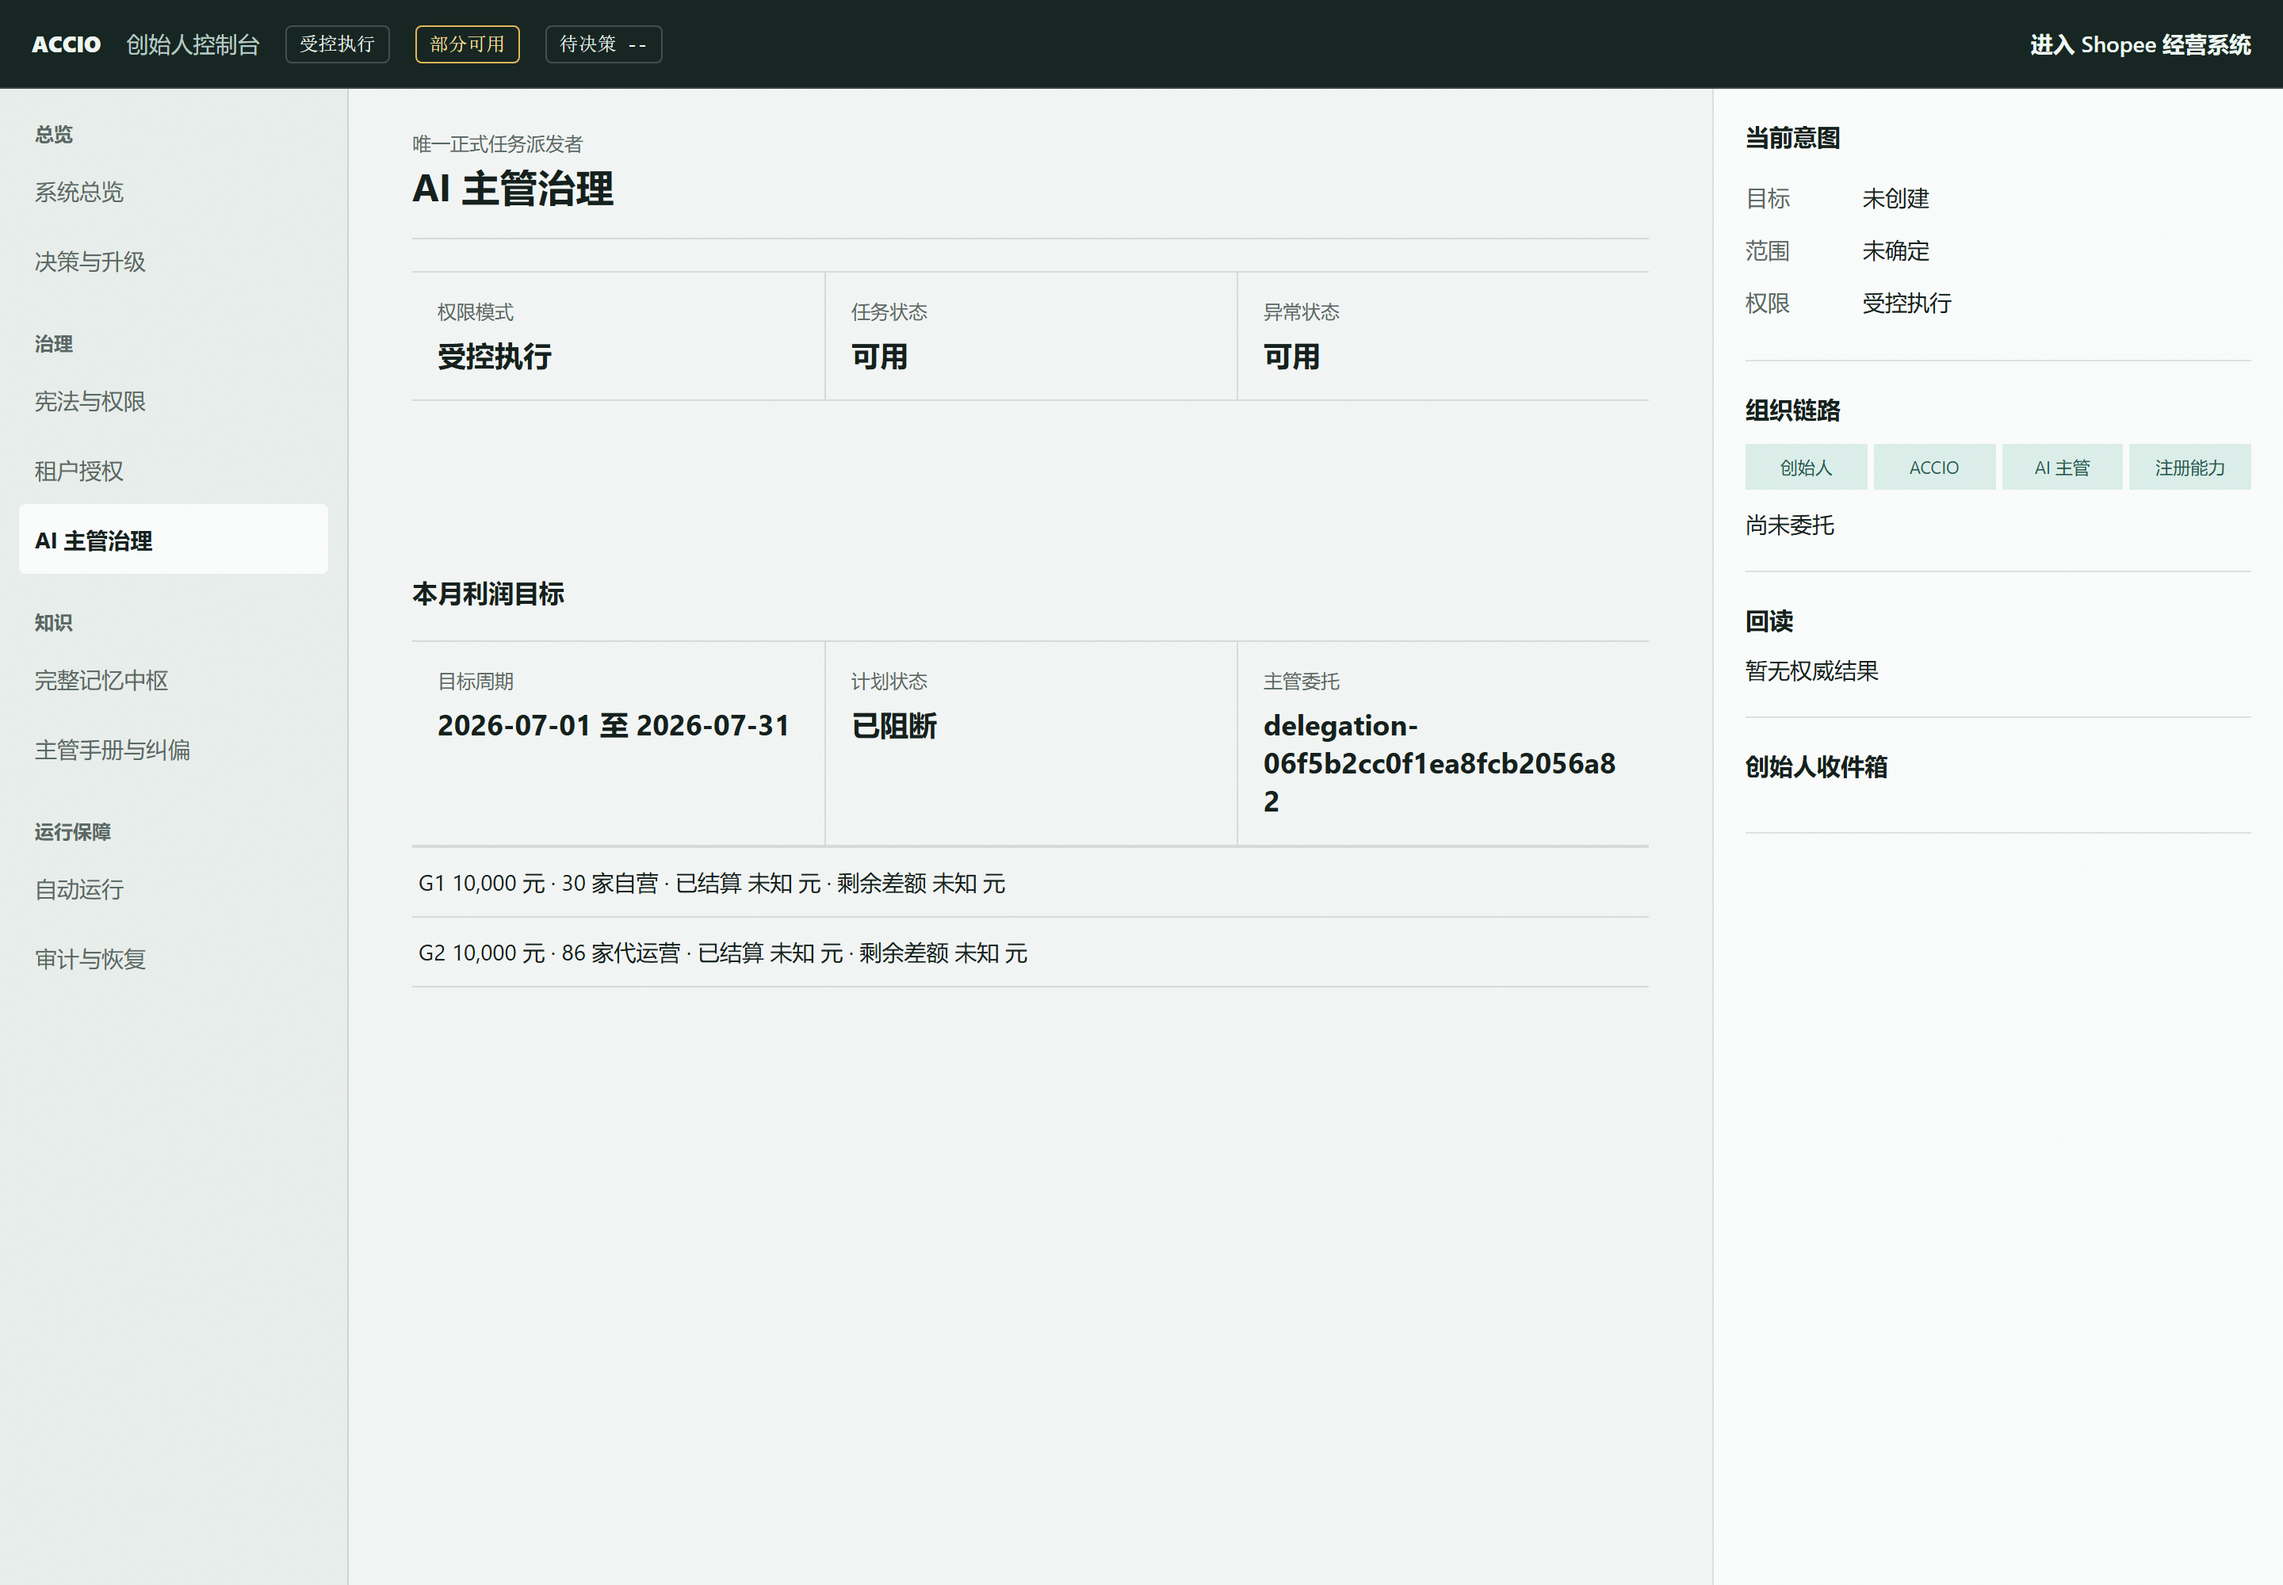
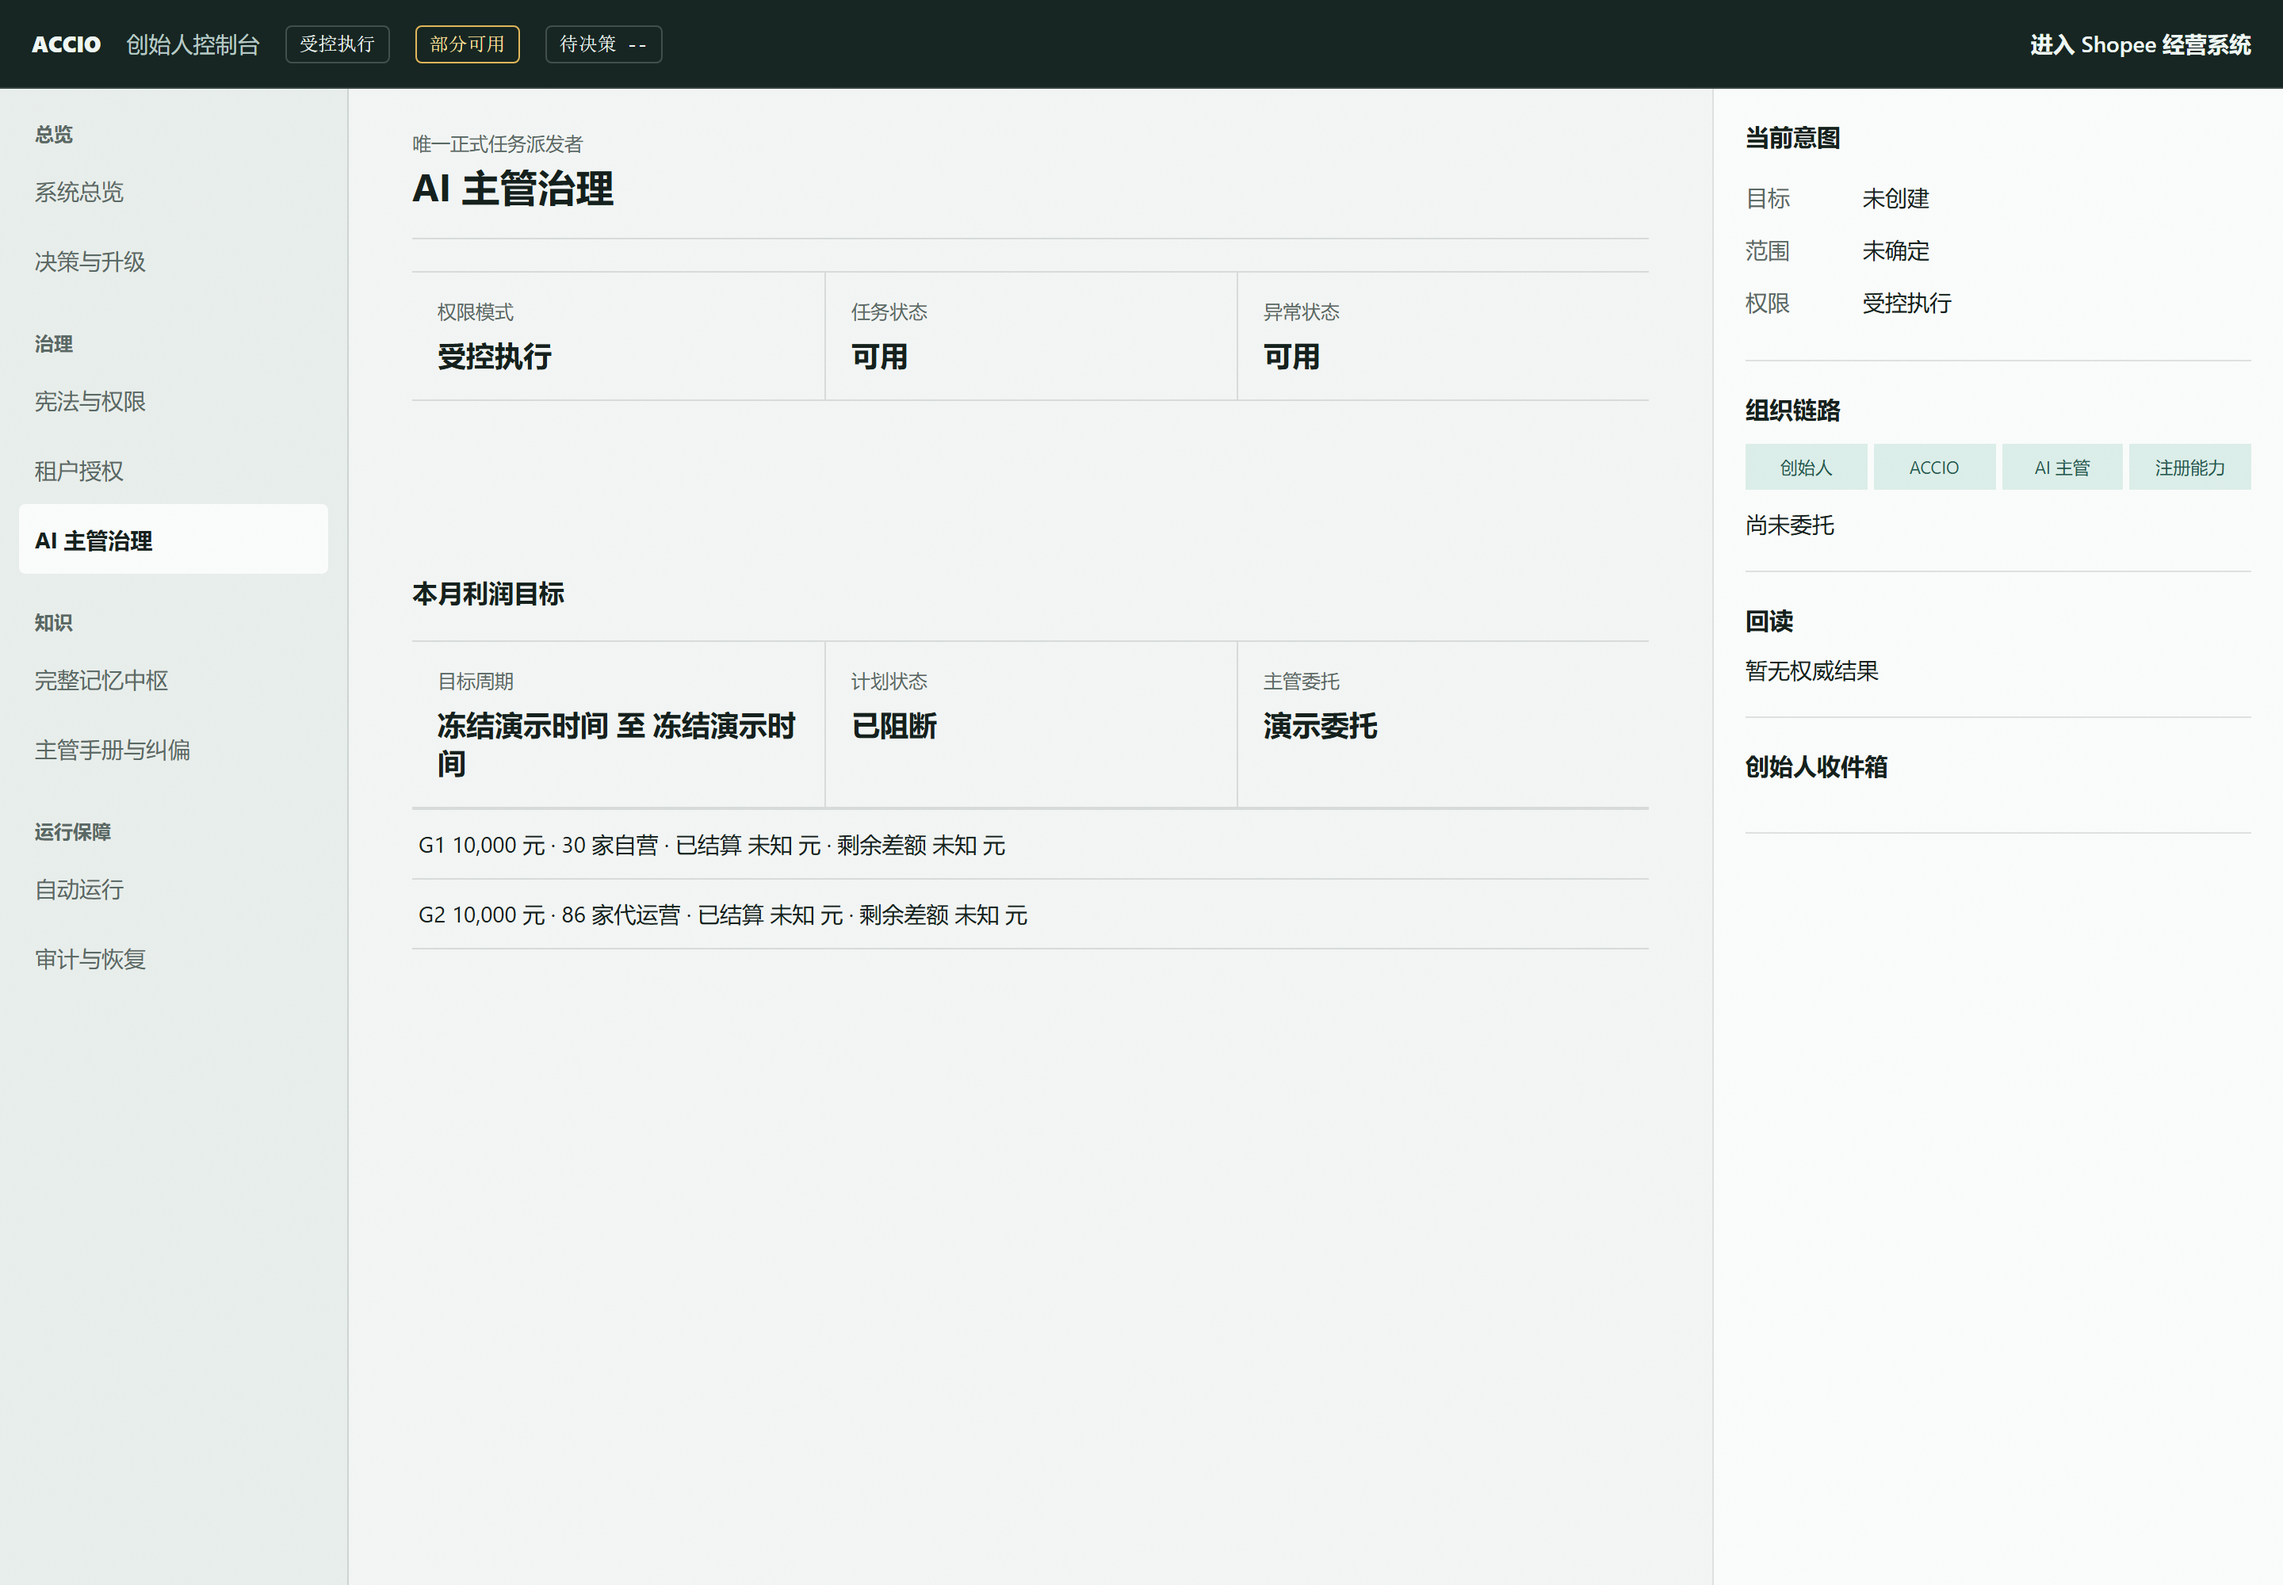
fix(video): sanitize and atomically publish AXIO evidence

diff --git a/video/axio-hyperframes/tests/v2-capture.test.ts b/video/axio-hyperframes/tests/v2-capture.test.ts
@@ -1,9 +1,11 @@
 import {createHash} from 'node:crypto';
-import {readFileSync} from 'node:fs';
+import {existsSync, mkdirSync, mkdtempSync, readFileSync, rmSync, writeFileSync} from 'node:fs';
+import {tmpdir} from 'node:os';
+import {join} from 'node:path';
 import sharp from 'sharp';
 import {describe, expect, it} from 'vitest';
 // @ts-expect-error The production capture script is intentionally plain ESM for direct Node execution.
-import {assertLoopbackBaseUrl, CAPTURE_PAGES, classifyCaptureRequest, createCaptureManifest, findSensitiveEvidence} from '../scripts/capture-evidence.mjs';
+import {assertLoopbackBaseUrl, CAPTURE_PAGES, classifyCaptureRequest, createCaptureManifest, findSensitiveEvidence, publishCaptureBundle, sanitizeEvidenceText} from '../scripts/capture-evidence.mjs';
 
 describe('AXIO Ink Press evidence capture', () => {
   it('accepts only exact IPv4 loopback HTTP bases with an explicit port', () => {
@@ -56,13 +58,26 @@ describe('AXIO Ink Press evidence capture', () => {
       assets: [{file: 'dashboard-page.png', sha256: 'a'.repeat(64), width: 2560, height: 3200, kind: 'page'}],
       blockedRequests: ['GET https://example.com/font.woff2'],
       attemptedWrites: [],
+      safetyScans: CAPTURE_PAGES.map(({name}: {name: string}) => ({page: name, findings: []})),
     });
     expect(manifest.platform_write).toBe(false);
     expect(manifest.attempted_writes).toEqual([]);
     expect(manifest.assets[0]?.sha256).toMatch(/^[a-f0-9]{64}$/);
+    expect(manifest.data_safety).toEqual({
+      status: 'passed',
+      scanned_pages: CAPTURE_PAGES.map(({name}: {name: string}) => name),
+      findings: [],
+    });
     expect(() => createCaptureManifest({
-      baseUrl: 'http://127.0.0.1:8080/', assets: [], blockedRequests: [], attemptedWrites: ['POST /api/run'],
+      baseUrl: 'http://127.0.0.1:8080/', assets: [], blockedRequests: [], attemptedWrites: ['POST /api/run'], safetyScans: [],
     })).toThrow(/write attempts/i);
+    expect(() => createCaptureManifest({
+      baseUrl: 'http://127.0.0.1:8080/', assets: [], blockedRequests: [], attemptedWrites: [],
+      safetyScans: CAPTURE_PAGES.map(({name}: {name: string}) => ({page: name, findings: name === 'supervisor' ? ['plan-identifier'] : []})),
+    })).toThrow(/safety scan/i);
+    expect(() => createCaptureManifest({
+      baseUrl: 'http://127.0.0.1:8080/', assets: [], blockedRequests: [], attemptedWrites: [], safetyScans: [],
+    })).toThrow(/all approved pages/i);
   });
 
   it('rejects credential, private tenant, internal path, and order evidence', () => {
@@ -71,6 +86,75 @@ describe('AXIO Ink Press evidence capture', () => {
     expect(findSensitiveEvidence('订单号 123456789012345')).toContain('order-identifier');
     expect(findSensitiveEvidence('tenant_private=merchant-one')).toContain('tenant-private');
     expect(findSensitiveEvidence('AXIO 智核\nAI 主管\n规划能力')).toEqual([]);
+  });
+
+  it('rejects internal operating identifiers, timestamps, PIN labels, regions, and live execution state', () => {
+    const cases = [
+      ['plan-identifier', '当前有效 | plan_20260729_223715_55bdd20b0d6a3077'],
+      ['task-identifier', '主任务 sup_4106a1ab49f0 · 刷新容量'],
+      ['acceptance-identifier', '验收证据 accept_16fb7c7255ec4501'],
+      ['delegation-identifier', '主管委托 delegation-06f5b2cc0f1ea8fcb2056a82'],
+      ['timestamp', '观察 2026-07-29T22:42:21+08:00'],
+      ['founder-pin', 'Founder PIN\n等待验证'],
+      ['internal-region', '全部公司 广州 山东 丹阳 上海'],
+      ['live-release-status', '营销执行 已释放'],
+      ['unattended-status', '无人值守批量铺货\n已正式启用'],
+      ['unattended-status', '受控自动运行已启动'],
+    ] as const;
+    for (const [label, text] of cases) expect(findSensitiveEvidence(text), text).toContain(label);
+    expect(findSensitiveEvidence('受控执行 released=0 unattended=0 规划能力 / 尚未开放')).toEqual([]);
+  });
+
+  it('freezes internal and live page text into the approved sanitized demo state', () => {
+    const unsafe = [
+      '当前有效 | plan_20260729_223715_55bdd20b0d6a3077',
+      '主任务 sup_4106a1ab49f0 · 验收 accept_16fb7c7255ec4501',
+      '委托 delegation-06f5b2cc0f1ea8fcb2056a82 · 观察 2026-07-29T22:42:21+08:00',
+      'Founder PIN · 广州 山东 丹阳 上海',
+      '营销执行 已释放 · 无人值守批量铺货 已正式启用 · 受控自动运行已启动',
+    ].join('\n');
+    const sanitized = sanitizeEvidenceText(unsafe);
+    expect(findSensitiveEvidence(sanitized)).toEqual([]);
+    expect(sanitized).toContain('演示计划');
+    expect(sanitized).toContain('受控执行');
+    expect(sanitized).toContain('released=0');
+    expect(sanitized).toContain('unattended=0');
+    expect(sanitized).toContain('规划能力');
+    expect(sanitized).toContain('尚未开放');
+  });
+
+  it('publishes a complete capture bundle by directory replacement', async () => {
+    const sandbox = mkdtempSync(join(tmpdir(), 'axio-capture-publish-'));
+    const current = join(sandbox, 'ink');
+    const staging = join(sandbox, 'ink-next');
+    const layoutPath = join(sandbox, 'live-layout.json');
+    mkdirSync(current);
+    mkdirSync(staging);
+    writeFileSync(join(current, 'old.txt'), 'old');
+    writeFileSync(join(staging, 'new.txt'), 'new');
+    writeFileSync(layoutPath, '{"old":true}\n');
+    try {
+      await publishCaptureBundle({stagingDir: staging, outputDir: current, layoutPath, layout: {new: true}});
+      expect(existsSync(join(current, 'new.txt'))).toBe(true);
+      expect(existsSync(join(current, 'old.txt'))).toBe(false);
+      expect(JSON.parse(readFileSync(layoutPath, 'utf8'))).toEqual({new: true});
+    } finally {
+      rmSync(sandbox, {recursive: true, force: true});
+    }
+  });
+
+  it('accepts the current bundle only after every OCR sidecar is sanitized', () => {
+    const findings = CAPTURE_PAGES.flatMap(({name}: {name: string}) =>
+      findSensitiveEvidence(readFileSync(`public/evidence/ink/${name}.ocr.txt`, 'utf8')),
+    );
+    expect(findings).toEqual([]);
+    const manifest = JSON.parse(readFileSync('public/evidence/ink/capture-manifest.json', 'utf8'));
+    expect(manifest.version).toBe(2);
+    expect(manifest.data_safety).toEqual({
+      status: 'passed',
+      scanned_pages: CAPTURE_PAGES.map(({name}: {name: string}) => name),
+      findings: [],
+    });
   });
 
   it('validates generated image dimensions, pixels, hashes, coordinates, and OCR sidecars', async () => {
@@ -94,7 +178,6 @@ describe('AXIO Ink Press evidence capture', () => {
       expect(Object.keys(pageLayout.cutouts).length).toBeGreaterThan(0);
       const pageAsset = manifest.assets.find(({file}: {file: string}) => file === `${config.name}-page.png`);
       expect(pageAsset).toMatchObject({kind: 'page', width: pageLayout.pageW * 2, height: pageLayout.pageH * 2});
-      expect(findSensitiveEvidence(readFileSync(`public/evidence/ink/${config.name}.ocr.txt`, 'utf8'))).toEqual([]);
       for (const box of Object.values(pageLayout.boxes) as Array<{x: number; y: number; w: number; h: number}>) {
         expect(box.x).toBeGreaterThanOrEqual(0);
         expect(box.y).toBeGreaterThanOrEqual(0);
